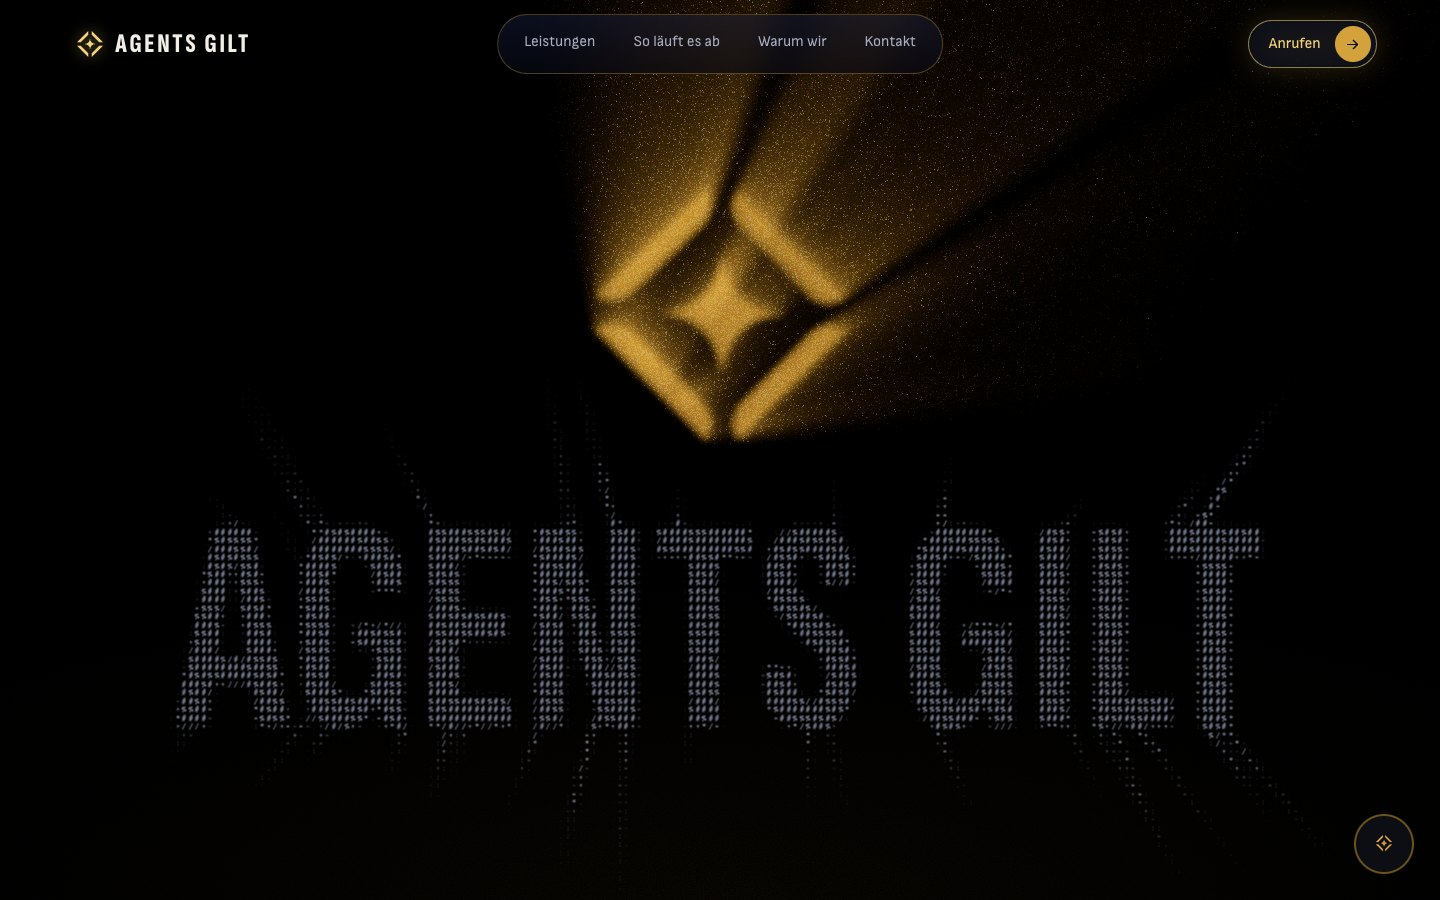
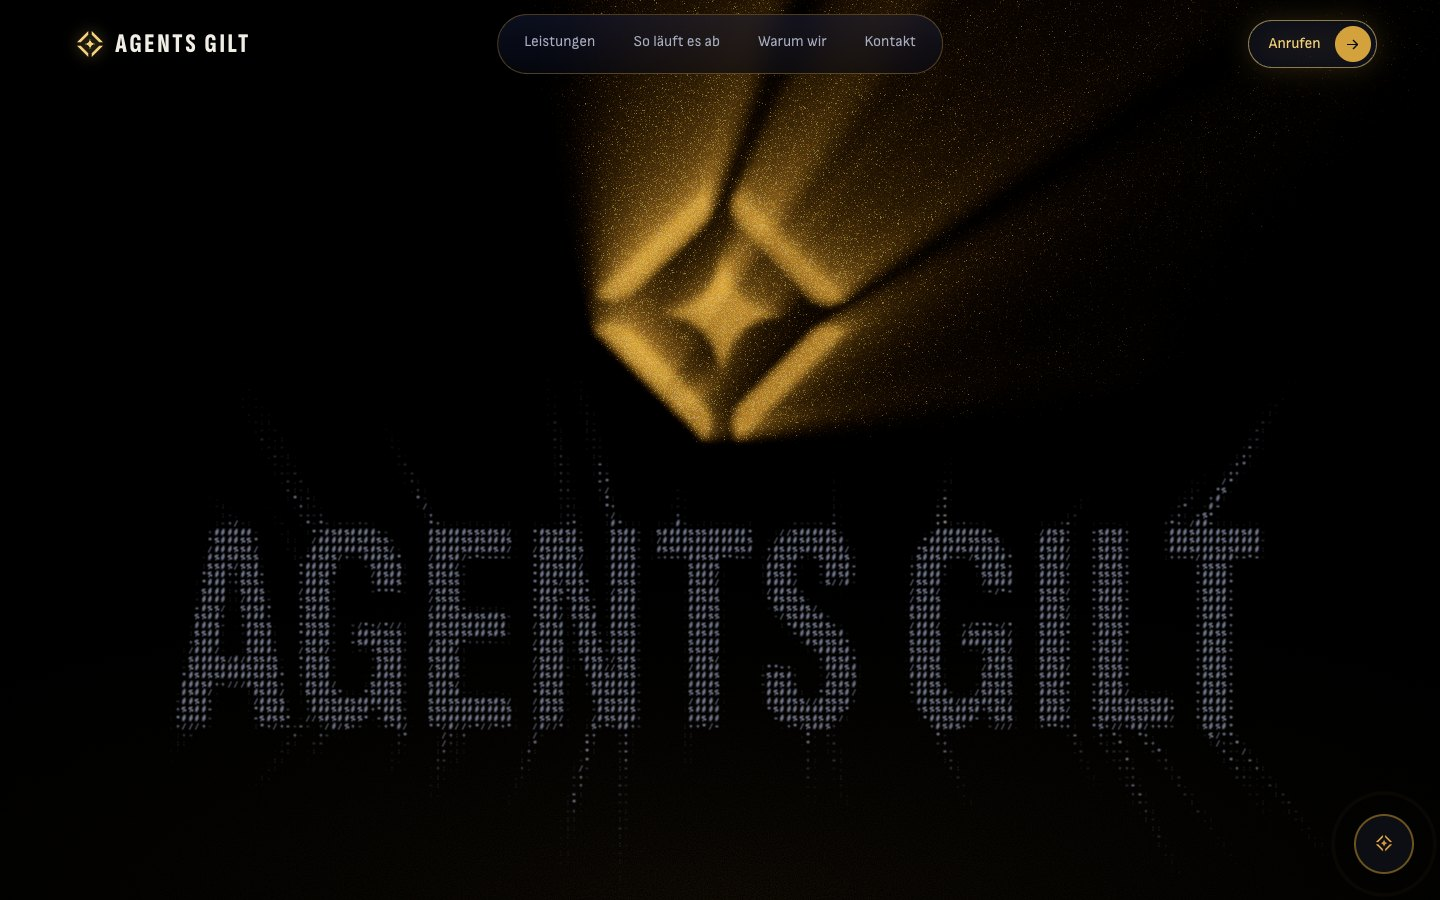
Website neu: lange Strahlen wieder so stark und lang wie in 8c455bd
Stern, Balkenbreite und der zweite Durchgang bleiben unverändert. Nur zwei
Belichtungswerte sind neu:
- erster Durchgang (lange Strahlen) 0,15 -> 0,21
- zweiter Durchgang (Licht in den Öffnungen) 0,26 -> 0,24, damit die Balken
  selbst nicht überstrahlen

Gemessen auf der Testseite (1440 x 900, Maus in der Mitte), Mittelwert der
Helligkeit in Halbringen oberhalb des Logos bei 130-200 / 200-300 /
300-400 px: 8c455bd 46 / 15 / 6, ea5125f 39 / 13 / 5, jetzt 46 / 16 / 6.
Reichweite wieder rund 430 px. Hellste Stelle im Logo rund 213 von 255.

Ruhiges Bild und Übersichtsbilder neu aufgenommen. Doku angepasst:
docs/gestaltung.md (4d, Entscheidung 15) und der Gestaltungs-Vertrag.

Changed region(s): [[0.4062, 0.0933, 0.6562, 0.4978]]

diff --git a/components/neu/kopf/lichtszene.ts b/components/neu/kopf/lichtszene.ts
@@ -267,10 +267,11 @@ export function starteLichtSzene(halter: HTMLElement, anker: HTMLElement, wahl: 
     density: 0.77,
     decay: Math.pow(0.94, 80 / wahl.proben),
     weight: (0.2 * 80) / wahl.proben,
-    // Seit die Öffnungen wieder die Breite der echten Balken haben, fällt mehr Licht hindurch: Die
-    // Belichtung ist so weit gesenkt, dass die Speichen so hell sind wie zuvor (in 160 und 250 px
-    // Abstand rund 77 und 30 von 255).
-    exposure: 0.15,
+    // Die Öffnungen haben die Breite der echten Balken, es fällt also mehr Licht hindurch als durch
+    // die früheren schmalen Splitter (damals Belichtung 0,42). Mit 0,21 sind die langen Strahlen
+    // wieder so stark und so lang wie im Stand 8c455bd: Mittelwert der Helligkeit in Ringen
+    // oberhalb des Logos (130–200 / 200–300 / 300–400 px) rund 46 / 16 / 6, Reichweite rund 430 px.
+    exposure: 0.21,
     clampMax: 1,
     resolutionScale: 0.5,
     kernelSize: KernelSize.MEDIUM,
@@ -286,7 +287,9 @@ export function starteLichtSzene(halter: HTMLElement, anker: HTMLElement, wahl: 
     density: 0.15,
     decay: 0.82,
     weight: 0.3,
-    exposure: 0.26,
+    // So eingestellt, dass Balken und Stern zusammen mit den langen Strahlen bei rund 205 von 255
+    // bleiben: klar erkennbar, nichts überstrahlt.
+    exposure: 0.24,
     clampMax: 1,
     resolutionScale: 0.5,
     kernelSize: KernelSize.SMALL,

diff --git a/docs/gestaltung.md b/docs/gestaltung.md
@@ -118,7 +118,7 @@ Ziel in einem Satz: Man sieht kein Objekt, keine Kante und keine Fläche, nur ei
   3. Aus diesem Licht zieht der Effekt die Strahlen.
 - **Größe:** Das Logo-Loch ist am Computer rund 245 px breit (17 % der Bildbreite, höchstens 300 px). Am Handy rund 35 % der Bildbreite. Gemeint ist die sichtbare Öffnung: Die äußeren Ecken der vier Balken liegen genau auf dem Rand des Platzes (`.ag-ln__loch`).
 - **Öffnungen wie im echten Logo (seit Runde 4):** Die vier Balken-Öffnungen haben Form und Winkel der Balken aus dem Logo (`components/neu/Marke.tsx`; der Balken ist dort rund 9,4 von 100 Einheiten breit, bei 245 px Logo-Breite knapp 25 px). Die Außenkante ist unverändert, die Innenkante liegt etwas weiter außen: Die Öffnung ist 85 % so breit wie der Balken (rund 21 px). Die beiden stumpfen Enden sind nur leicht angespitzt. Der Stern behält die Größe, die er seit der dritten Runde hat (er ist damit rund 17 % größer als im Logo). Die schmalen Splitter aus Runde 3 und 3b sind ersetzt: Mit ihnen war das Logo nicht eindeutig zu erkennen.
-- **Licht direkt in den Öffnungen (seit Runde 4):** Derselbe `GodRaysEffect` läuft ein zweites Mal mit ganz kurzer Reichweite (30 Proben, Dichte 0,15, Abklingen 0,82, Gewicht 0,3, Belichtung 0,26), gespeist aus einer zweiten, gleichmäßigen Lichtscheibe an derselben Stelle (auch sie nicht in der Szene, nur Lichtquelle, ohne Speichen). Er zeigt das Licht in den Öffnungen selbst. Grund: Ein Balken liegt quer zu den Strahlen; mit den langen Strahlen allein verschwindet seine Außenkante im Schein, und man sieht vier Fächer statt vier Balken. Mit dem zweiten Durchgang leuchten Balken und Stern als Form (gedimmt, rund 200 von 255), die Speichen strahlen wie zuvor. **Das geht über Davids Wortlaut hinaus** („nur über Weight und Exposure“): Mit nur einem Durchgang war das Logo nicht auf den ersten Blick zu erkennen. Ob der zweite Durchgang bleibt, entscheidet David; ohne ihn genügt es, den Effekt `direkt` in `lichtszene.ts` zu entfernen.
+- **Licht direkt in den Öffnungen (seit Runde 4):** Derselbe `GodRaysEffect` läuft ein zweites Mal mit ganz kurzer Reichweite (30 Proben, Dichte 0,15, Abklingen 0,82, Gewicht 0,3, Belichtung 0,24), gespeist aus einer zweiten, gleichmäßigen Lichtscheibe an derselben Stelle (auch sie nicht in der Szene, nur Lichtquelle, ohne Speichen). Er zeigt das Licht in den Öffnungen selbst. Grund: Ein Balken liegt quer zu den Strahlen; mit den langen Strahlen allein verschwindet seine Außenkante im Schein, und man sieht vier Fächer statt vier Balken. Mit dem zweiten Durchgang leuchten Balken und Stern als Form (gedimmt, rund 205 von 255), die Speichen strahlen wie zuvor. David hat den zweiten Durchgang am 12.11.2026 bestätigt („Stern, Balkenbreite und der zweite Durchgang bleiben genau so“). Seine Stärke gleicht aus, wenn die langen Strahlen heller oder dunkler gestellt werden: Die Balken selbst dürfen nicht überstrahlen.
 - **Lichtscheibe weit hinten:** Die Kamera steht 14 Einheiten vor der Wand (bei einem Logo von rund einem Viertel der Bildhöhe ergibt das 35° Sichtfeld), die Scheibe sitzt 100 Einheiten hinter der Wand auf deren Achse. Kippt die Wand nur wenig zur Maus (zur Seite höchstens rund 9°, nach oben und unten rund 11°; so zeigt der Kegel in den Bildecken wie beim Vorbild leicht steiler als die Diagonale), wandert die ferne Scheibe weit zur Gegenseite: Es entsteht ein langer, schmaler Lichtkegel zur Maus hin, auf der abgewandten Seite ist es schwarz. Die Scheibe ist groß (Radius 44), damit sie das Logo auch gekippt noch beleuchtet; im Umkreis des halben Logos um ihre Mitte leuchtet sie etwas schwächer (70 %), sonst überstrahlt der Stern alles andere.
 - **Immer gleich groß und in der Blickachse:** Das Sichtfeld richtet sich nach der Bildhöhe, der Bildausschnitt wird auf die Logo-Mitte verschoben. So sieht das Licht bei jeder Bildgröße und an jeder Stelle gleich aus (am Handy sitzt es im oberen Drittel).
 - **Farbe:** nur Gold (#f0a83a), in der Mitte der Scheibe ein Hauch heller (zu 60 % #ffd27a). Kein Weiß. Belichtung und Gewicht sind so niedrig, dass nichts überstrahlt.
@@ -127,7 +127,7 @@ Ziel in einem Satz: Man sieht kein Objekt, keine Kante und keine Fläche, nur ei
 - **Körnung wie beim Vorbild:** `NoiseEffect` mit `COLOR_DODGE` und 0,2 Deckkraft. Das Korn ist nur im Licht sichtbar, das Schwarz bleibt schwarz und sauber.
 - **Grund rein schwarz:** Kopfbereich, Wand und Hintergrund der Szene haben denselben Ton (#000). Kein blauer Verlauf im Kopfbereich. Der Grund der Szene ist als Hintergrund gesetzt (nicht als Löschfarbe), damit die Farbe in den Löchern richtig ankommt. Direkt unter dem Kopfbereich geht das Schwarz ohne harte Linie in den Grund der Seite über.
 - **Bewegung:** Das Licht pulsiert nur ganz leicht (± 2 %). Ohne Maus (Handy) wiegt sich die Wand kaum merklich von selbst; das Leben kommt aus den langsam wandernden Speichen.
-- **Werte der Strahlen:** 80 Proben je Bildpunkt am Computer, 60 am Handy; Dichte 0,77, Abklingen 0,94, Gewicht 0,2, Belichtung 0,15 (Abklingen und Gewicht werden auf die Probenzahl umgerechnet, damit das Licht am Handy gleich aussieht); halbe Auflösung mit mittlerem Weichzeichner. Seit die Öffnungen wieder die Breite der echten Balken haben, fällt mehr Licht hindurch; ausgeglichen wurde nur über die Belichtung (0,42 → 0,15), bis die Speichen wieder so hell sind wie in Runde 3b: hellster Wert auf Ringen um die Lichtmitte in 160 und 250 px Abstand rund 78 und 29 (vorher 75 und 30; in 100 px Abstand liegt der Ring jetzt in den Balken selbst, rund 200, vorher 208). Zum Vergleich das Vorbild bei 100/130/160/200/250 px: 176/104/73/53/40.
+- **Werte der Strahlen:** 80 Proben je Bildpunkt am Computer, 60 am Handy; Dichte 0,77, Abklingen 0,94, Gewicht 0,2, Belichtung 0,21 (Abklingen und Gewicht werden auf die Probenzahl umgerechnet, damit das Licht am Handy gleich aussieht); halbe Auflösung mit mittlerem Weichzeichner. **Maßstab sind die Strahlen aus dem Stand 8c455bd** (schmale Splitter, Belichtung 0,42): Seit die Öffnungen die Breite der echten Balken haben, fällt mehr Licht hindurch; mit 0,21 sind die langen Strahlen wieder so stark und so lang wie dort. Gemessen auf der Testseite (1440 × 900, Maus in der Mitte) als Mittelwert der Helligkeit (hellster Farbkanal) in Halbringen oberhalb des Logos, 130–200 / 200–300 / 300–400 px: 8c455bd 46 / 15 / 6, jetzt 46 / 16 / 6; über den ganzen Ring bei 130/160/200/250/300 px: 84/49/27/15/10 gegenüber 85/49/28/16/10; Reichweite jeweils rund 430 px. (Zwischenstand ea5125f mit Belichtung 0,15: 39 / 13 / 5, die Strahlen waren zu schwach und zu kurz.) Zum Vergleich das Vorbild, hellster Wert bei 100/130/160/200/250 px: 176/104/73/53/40.
 - **Technik:** three.js mit `postprocessing`, wird nachgeladen (nicht bei „weniger Bewegung“). Rechnet nur, solange der Kopfbereich zu sehen ist, mit höchstens 2-facher Pixeldichte. Vor dem Auftritt wird nur einmal der dunkle Grund gezeichnet; in Ruhe genügt jedes zweite Bild.
 - **Testseite:** `/varianten/licht-test` zeigt das Licht allein (schwarze Wand mit Logo-Loch, Lichtscheibe, God Rays, Filmkorn; ohne Name und Kopfleiste), in derselben Größe und Lage wie im Kopfbereich (am Handy im oberen Drittel). Dort wird es neben madebyigor.com/lab gelegt (Computer: Maus in der Mitte und links oben; Handy) und angeglichen. Was außer Farbe und Form bewusst anders ist: Die Strahlen enden früher im reinen Schwarz, und am Handy sitzt das Licht im oberen Drittel statt in der Mitte. Bei „weniger Bewegung“ steht auch dort nur das ruhige Bild. Wer das Licht ändert, gleicht zuerst dort ab.
 
@@ -199,3 +199,4 @@ Nur diese Dinge, kein weiterer Text, kein Hinweistext:
 12. **Licht, dritte Runde (12.11.2026): feiner und dunkler, wie das Vorbild.** Der Aufbau bleibt (Wand mit Logo-Loch, Lichtscheibe nur als Lichtquelle, fertiger `GodRaysEffect`). Neu: Lichtscheibe 100 Einheiten hinter der Wand (Kamera 14 davor), schmale, spitz auslaufende Öffnungen, Logo-Loch etwa so breit wie „TS“ im Namen, nur noch Gold (kein Weiß), Korn als `COLOR_DODGE` mit 0,2 Deckkraft, Strahlen enden auf etwa halber Strecke im reinen Schwarz, Grund des Kopfbereichs rein schwarz ohne blauen Verlauf, Atmen fast unmerklich. Am Handy: Logo 35 % der Bildbreite, im oberen Drittel, der Rest schwarz. **Entfallen:** das goldene Scroll-Licht von unten (kein goldener Streifen am unteren Rand). Einzelheiten in 4d, Punkt 1.
 13. **Licht, Runde 3b (12.11.2026):** Die vier äußeren Öffnungen sind rund 11 % länger und in der Mitte 15 % breiter (Enden bleiben spitz; Stern, Gesamtbreite des Lochs und Licht-Werte unverändert). Der Scroll-Hinweis ist zurück, aber dezent: nach 4 Sekunden ein sehr schwacher, breiter Goldschein von unten, der langsam pulsiert und beim Scrollen ausblendet (4d).
 14. **Licht und Aufbau, Runde 4 (12.11.2026):** (a) Logo eindeutig erkennbar: Die vier Balken-Öffnungen haben wieder Form und Winkel der Balken des echten Logos, 85 % so breit, Enden nur leicht angespitzt; Stern und Gesamtbreite des Lochs (rund 245 px) unverändert. Die Helligkeit der Speichen ist nur über die Belichtung ausgeglichen. Dazu läuft derselbe Bibliotheks-Effekt ein zweites Mal mit kurzer Reichweite und zeigt das Licht direkt in den Öffnungen; ohne ihn lösen sich die Außenkanten der Balken in den Strahlen auf. (b) Der Name steht jetzt unter dem Licht, auch am Computer: Licht-Logo oben mittig, Name mittig darunter mit Abstand, rund 76 % der Bildbreite; nichts überdeckt sich. Am Handy besteht der Name nur aus feinen Zeichen. Der Scroll-Hinweis bleibt am unteren Rand (4d).
+15. **Strahlen wieder wie in 8c455bd (12.11.2026):** Stern, Balkenbreite und der zweite Durchgang bleiben. Die langen Strahlen waren seit der Senkung der Belichtung auf 0,15 zu schwach und zu kurz; der erste Durchgang steht jetzt auf 0,21, der zweite zum Ausgleich auf 0,24. Maßstab und Messung stehen in 4d unter „Werte der Strahlen“.

diff --git a/.impeccable/surfaces/app-page-tsx.md b/.impeccable/surfaces/app-page-tsx.md
@@ -15,7 +15,7 @@ related_targets: []
 - **Entschieden am 11.11.2026:** Betonungswörter bleiben aufrecht (nicht kursiv). Fußleiste mit stehendem Riesen-Schriftzug, kein Laufband.
 - **Entschieden am 11.11.2026 (Schritt 3 → 4):** Aufbau „Riesen-Schriftzug“. Kopfbereich: ein Bild, alles mittig; das Logo als glänzendes 3D-Zeichen (three.js/WebGPU, nur am Computer), am Handy und bei „weniger Bewegung“ ein ruhiges 2D-Ersatzbild, das auf Tippen reagiert. Vier Kopfbild-Varianten unter `/varianten/kopf`; gewählt: **Kern im Schriftzug** (`/varianten/kopf/kern`).
 
-- **Richtungswechsel (11./12.11.2026, vor Schritt 5): Das 3D-Logo ist ersetzt.** Kopfbereich ohne Text, in zwei Ebenen: hinten unser Logo aus Licht (three.js mit dem fertigen God-Rays-Effekt und dem Filmkorn der Bibliothek postprocessing: dunkle Wand mit Logo-Loch, Lichtscheibe nur als Lichtquelle; am Computer 80 Proben, am Handy 60, ruhiges Bild nur bei Ruckeln und bei „weniger Bewegung“), vorn der Name aus Zeichen-Teilchen (Zeichen-Raster auf einer 2D-Zeichenfläche). Überschrift, Unterzeile und Telefon-Block stehen vorerst direkt darunter und werden im nächsten Auftrag neu verteilt. Einzelheiten in docs/gestaltung.md, Abschnitt 4d. **Licht am 12.11.2026 ein zweites Mal neu gebaut:** kein eigener Effekt mehr, keine Balken als Körper, keine goldenen Kanten, kein weißer Blitz; zuerst auf `/varianten/licht-test` mit madebyigor.com/lab abgeglichen. **Dritte Runde (12.11.2026): feiner und dunkler.** Lichtscheibe weit hinter der Wand, schmale spitz auslaufende Öffnungen, nur Gold (kein Weiß), Korn nur im Licht, Strahlen enden im reinen Schwarz, Grund des Kopfbereichs rein schwarz, am Handy sitzt das Licht im oberen Drittel. **Runde 3b:** äußere Öffnungen etwas länger und breiter; der Scroll-Hinweis ist als sehr schwacher Goldschein von unten zurück (der frühere helle Streifen bleibt weg). **Runde 4:** Die Balken-Öffnungen haben wieder die Form der echten Balken (85 % breit), das Licht in den Öffnungen ist direkt zu sehen (zweiter kurzer Durchgang desselben Effekts), und der Name steht jetzt unter dem Licht-Logo statt darum herum; am Handy besteht er nur aus feinen Zeichen. Der Name der Richtung bleibt nur als Etikett; der Vertrag unten ist darauf umgeschrieben.
+- **Richtungswechsel (11./12.11.2026, vor Schritt 5): Das 3D-Logo ist ersetzt.** Kopfbereich ohne Text, in zwei Ebenen: hinten unser Logo aus Licht (three.js mit dem fertigen God-Rays-Effekt und dem Filmkorn der Bibliothek postprocessing: dunkle Wand mit Logo-Loch, Lichtscheibe nur als Lichtquelle; am Computer 80 Proben, am Handy 60, ruhiges Bild nur bei Ruckeln und bei „weniger Bewegung“), vorn der Name aus Zeichen-Teilchen (Zeichen-Raster auf einer 2D-Zeichenfläche). Überschrift, Unterzeile und Telefon-Block stehen vorerst direkt darunter und werden im nächsten Auftrag neu verteilt. Einzelheiten in docs/gestaltung.md, Abschnitt 4d. **Licht am 12.11.2026 ein zweites Mal neu gebaut:** kein eigener Effekt mehr, keine Balken als Körper, keine goldenen Kanten, kein weißer Blitz; zuerst auf `/varianten/licht-test` mit madebyigor.com/lab abgeglichen. **Dritte Runde (12.11.2026): feiner und dunkler.** Lichtscheibe weit hinter der Wand, schmale spitz auslaufende Öffnungen, nur Gold (kein Weiß), Korn nur im Licht, Strahlen enden im reinen Schwarz, Grund des Kopfbereichs rein schwarz, am Handy sitzt das Licht im oberen Drittel. **Runde 3b:** äußere Öffnungen etwas länger und breiter; der Scroll-Hinweis ist als sehr schwacher Goldschein von unten zurück (der frühere helle Streifen bleibt weg). **Runde 4:** Die Balken-Öffnungen haben wieder die Form der echten Balken (85 % breit), das Licht in den Öffnungen ist direkt zu sehen (zweiter kurzer Durchgang desselben Effekts), und der Name steht jetzt unter dem Licht-Logo statt darum herum; am Handy besteht er nur aus feinen Zeichen. **Danach:** Die langen Strahlen sind wieder so stark und so lang wie im Stand 8c455bd (das ist der Maßstab; Messung in docs/gestaltung.md 4d); der zweite Durchgang ist von David bestätigt. Der Name der Richtung bleibt nur als Etikett; der Vertrag unten ist darauf umgeschrieben.
 - **Stil, der bleibt:** fast schwarz mit dunkelblauen Akzenten, der Name grau, Gold beim Licht und bei wichtigen Wörtern. Nichts Helles. Seit der dritten Runde ist der Grund des Kopfbereichs rein schwarz (#000), ohne blauen Verlauf; die Abschnitte darunter behalten das fast schwarze Blau.
 
 ## Direction contract
